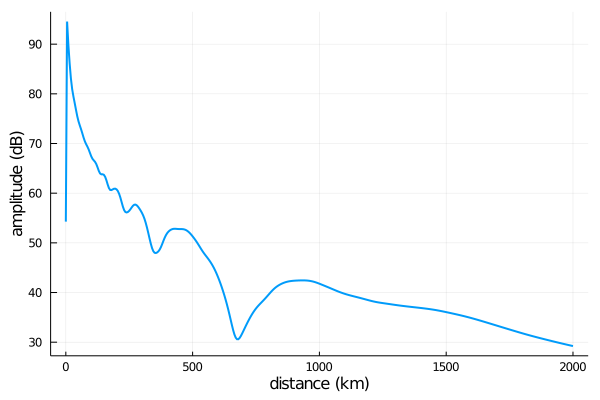
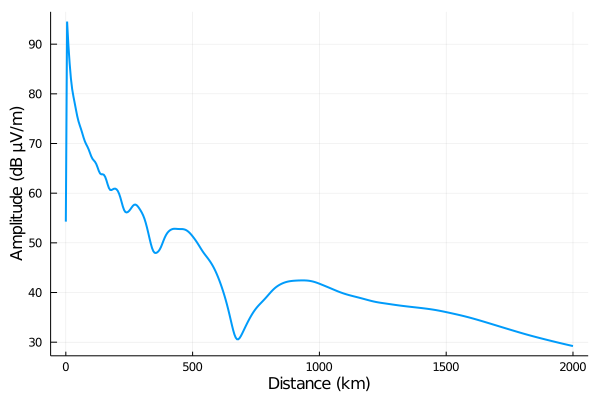
Cleaned up index page of docs

Changed region(s): [[0.0, 0.27, 0.06, 0.66], [0.45, 0.93, 0.63, 0.99]]

diff --git a/docs/src/index.md b/docs/src/index.md
@@ -1,32 +1,34 @@
 # LongwaveModePropagator.jl
 
-Model the propagation of VLF radio waves in the [Earth-ionosphere waveguide](https://en.wikipedia.org/wiki/Earth%E2%80%93ionosphere_waveguide).
+**Model the propagation of VLF radio waves in the [Earth-ionosphere waveguide](https://en.wikipedia.org/wiki/Earth%E2%80%93ionosphere_waveguide).**
 
-LongwaveModePropagator.jl is a mode theory propagation model written in the [Julia](https://julialang.org/) programming language.
-The model is largely based on the work of K. G. Budden, who developed both a convenient means of calculating an effective reflection coefficient for the anisotropic ionosphere [(Budden, 1955)](@ref Budden1955a) and a general method for calculating the electric field produced by a source dipole in the Earth-ionosphere waveguide [(Budden, 1962)](@ref Budden1962).
-It is similar to the Long Wavelength Propagation Capability [(Ferguson, 1998)](@ref Ferguson1998), but aims to be more robust and adaptable.
+Longwave Mode Propagator is a mode-theory propagation model written in the [Julia](https://julialang.org/) programming language.
+The model is largely based on the work of K. G. Budden, who developed both a convenient means of calculating an effective reflection coefficient for the anisotropic ionosphere [(Budden, 1955)](#Budden1955a) and a general method for calculating the electric field produced by a source dipole in the Earth-ionosphere waveguide [(Budden, 1962)](#Budden1962).
+It is similar to the [Long Wavelength Propagation Capability](http://www.dtic.mil/docs/citations/ADA350375), but aims to be more robust and adaptable.
 
 The package is most easily used when interfacing with it from Julia, but it can also run simple cases by reading in JSON files and writing the results back to JSON.
-See the **Examples** section of these docs for examples of building scenarios and running the model from within Julia and for generating compatible files from Matlab and Python.
+See the **Examples** section of these docs for examples of building scenarios and running the model from within Julia or for generating compatible files from Matlab and Python.
 
 ## Installation instructions
 
 1. [Download](https://julialang.org/downloads/) and install a recent version of Julia for your operating system.
 2. From the Julia REPL, install LongwaveModePropagator.jl and its dependencies:
 
-    julia> ]
-    (v1.5) pkg> add https://github.com/fgasdia/LongwaveModePropagator
-    (v1.5) pkg> instantiate
+```
+julia> ]
+(@v1.5) pkg> add https://github.com/fgasdia/LongwaveModePropagator
+(@v1.5) pkg> instantiate
+```
 
-If you'll be working primarily in Julia, of course you probably want to `cd` to your working directory, `] activate` a new environment there, and then `add` LongwaveModePropagator.
+If you'll be working primarily in Julia, you probably want to `cd` to your working directory, `] activate` a new environment, and then `add` LongwaveModePropagator.
 
-Julia has an excellent built-in package manager (accessed by typing `]` from the REPL) that also keeps track of the versions of all dependencies within an environment.
+Julia has an excellent built-in package manager (accessed by typing `]` from the REPL) that keeps track of the versions of all dependencies within an environment.
 This means you can leave your code, come back to it two years later on a new computer, and as long as you have all the original files (including the `Project.toml` and `Manifest.toml` files), you can `instantiate` the exact environment you were last working with.
 To update the environment (while maintaining compatibility across all dependencies), simply
 `] up`.
 
-As with most Julia packages, LongwaveModePropagator.jl is released under the MIT license and all source code is [hosted on GitHub](https://github.com/fgasdia/LongwaveModePropagator).
-Please open Issues or Pull requests if you find any problems, are interested in new features, or you would like to contribute.
+As with most Julia packages, LongwaveModePropagator is released under the MIT license and all source code is [hosted on GitHub](https://github.com/fgasdia/LongwaveModePropagator).
+Please open [Issues](https://github.com/fgasdia/LongwaveModePropagator.jl/issues) if you find any problems or are interested in new features, or [Pull requests](https://github.com/fgasdia/LongwaveModePropagator.jl/pulls) if you would like to contribute.
 
 ## Running your first model
 
@@ -62,13 +64,16 @@ We can plot the results if we `] add Plots`:
 ```julia
 using Plots
 
-plot(rx.distance/1000, a, xlabel="distance (km)", ylabel="amplitude (dB)")
+plot(rx.distance/1000, a, xlabel="Distance (km)", ylabel="Amplitude (dB μV/m)")
 ```
 
 ![](indexexample.png)
 
-Note that throughout the code SI units (MKS) and radians are used.
-The only notable exception in the current version of the package is the use of kilometers and inverse kilometers to define Wait and Spies ``h'`` and ``\beta`` parameters for the electron density profile.
+!!! note
+
+    SI units (MKS) and _radians_ are used throughout LongwaveModePropagator.
+
+    The only exception in the current version of the package is the use of kilometers and inverse kilometers to define Wait and Spies ``h'`` and ``\beta`` parameters for the electron density profile in the function [`waitprofile`](@ref). In practice, the units of these parameters are often not specified and implicitly taken to be kilometers and inverse kilometers.
 
 Users are encouraged to browse the **Examples** section for more complex scenarios.
 
@@ -78,7 +83,7 @@ Julia is a relatively new general programming language that shines for technical
 It has similarities to Matlab and Python, but is high performance and attempts to solve the ["two language problem"](https://thebottomline.as.ucsb.edu/2018/10/julia-a-solution-to-the-two-language-programming-problem).
 In part, it achieves its high performance by compiling functions to efficient native code via LLVM.
 Julia is dynamically typed and uses multiple dispatch, so that the first time a given function is passed arguments of a certain type, the function is compiled for those types.
-In practice, this means that the first time a function is called, it takes longer than it will on subsequent calls because at the first call the function also had to be compiled.
+In practice, this means that the first time a function is called, it takes longer than it will on subsequent calls, because at the first call the function also had to be compiled.
 
 ### Finding help
 
@@ -87,17 +92,17 @@ It is very thorough and combines significant textual explanations with examples.
 
 Besides the regular REPL prompt `julia>` and the package mode accessed with `]`, there is also a help mode accessible with `?`.
 The help functionality works "automatically", even for user-defined functions with docstrings.
-Most internal functions of LongwaveModePropagator.jl are documented, so e.g.
+Most internal functions of LongwaveModePropagator are documented, so e.g.
 ```julia
 ? LongwaveModePropagator.bookerquartic
 ```
-prints some explanation of the [`LongwaveModePropagator.bookerquartic`](@ref) function even though it's not exported from the package.
+prints an explanation of the [`LongwaveModePropagator.bookerquartic`](@ref) function even though it's not exported from the package.
 
 
 ## References
 
-[K. G. Budden](@id Budden1955a), “The numerical solution of differential equations governing reflexion of long radio waves from the ionosphere,” Proc. R. Soc. Lond. A, vol. 227, no. 1171, pp. 516–537, Feb. 1955, doi: [10.1098/rspa.1955.0027](https://doi.org/10.1098/rspa.1955.0027).
+```@raw html
+<a name="Budden1955a"></a>K. G. Budden, “The numerical solution of differential equations governing reflexion of long radio waves from the ionosphere,” Proc. R. Soc. Lond. A, vol. 227, no. 1171, pp. 516–537, Feb. 1955, doi: <a href="https://doi.org/10.1098/rspa.1955.0027">10.1098/rspa.1955.0027</a>.
 
-[K. G. Budden](@id Budden1962), “The influence of the earth’s magnetic field on radio propagation by wave-guide modes,” Proceedings of the Royal Society of London. Series A. Mathematical and Physical Sciences, vol. 265, no. 1323, pp. 538–553, Feb. 1962, doi: [10.1098/rspa.1962.0041](https://doi.org/10.1098/rspa.1962.0041).
-
-[J. A. Ferguson](@id Ferguson1998), “Computer programs for assessment of long-wavelength radio communications, version 2.0: User’s guide and source files,” Space and Naval Warfare Systems Center, San Diego, CA, Technical Document 3030, May 1998. [Online]. Available: http://www.dtic.mil/docs/citations/ADA350375.
+<a name="Budden1962"></a>K. G. Budden, “The influence of the earth’s magnetic field on radio propagation by wave-guide modes,” Proceedings of the Royal Society of London. Series A. Mathematical and Physical Sciences, vol. 265, no. 1323, pp. 538–553, Feb. 1962, doi: <a href="https://doi.org/10.1098/rspa.1962.0041">10.1098/rspa.1962.0041</a>.
+```
